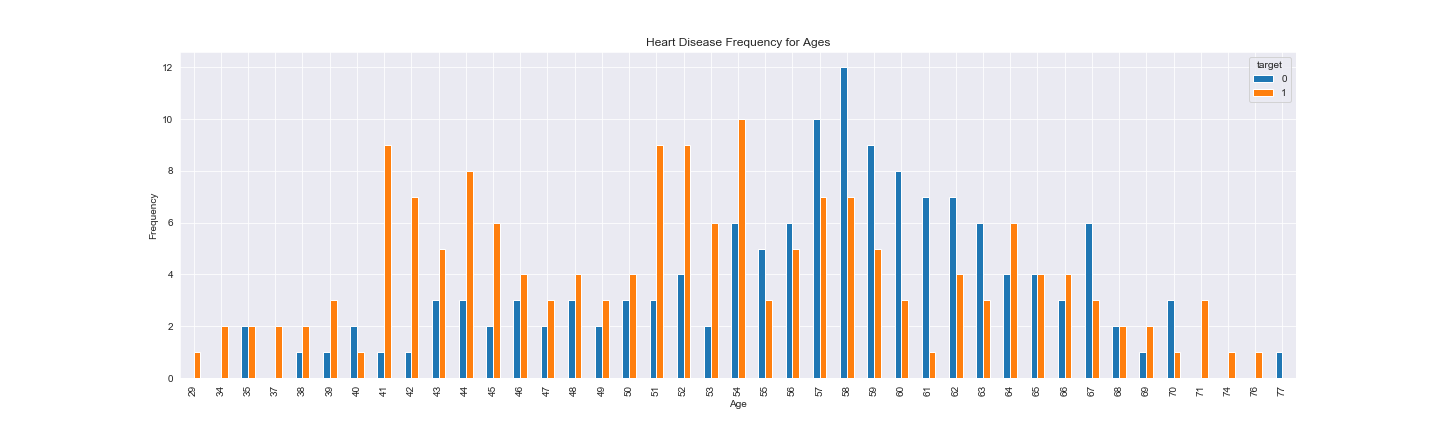
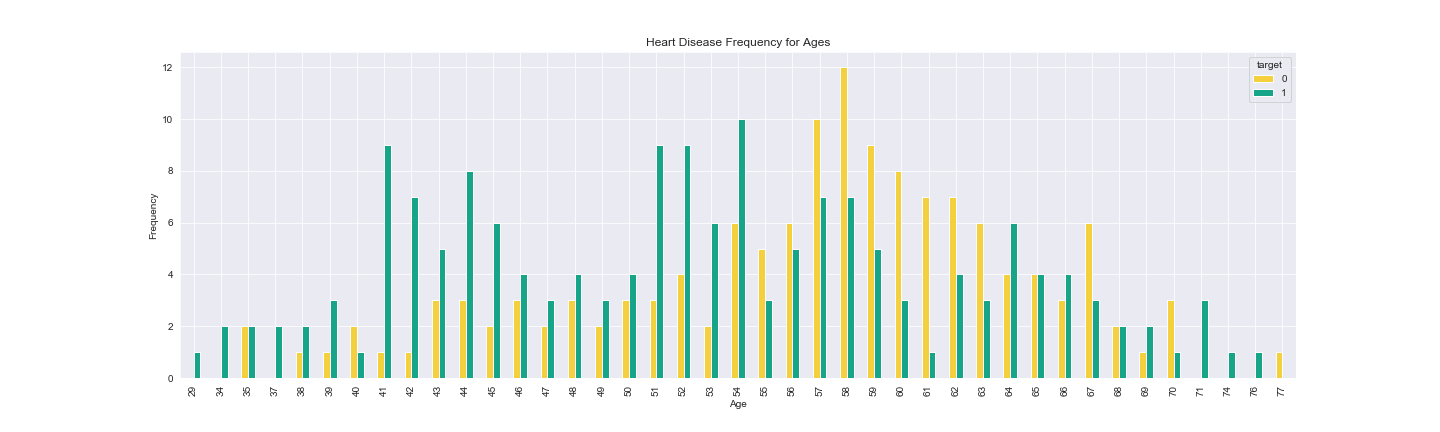
new color graph

Changed region(s): [[0.125, 0.1505, 0.9062, 0.8727], [0.875, 0.1806, 0.9062, 0.2407]]

diff --git a/UCI-Disease.py b/UCI-Disease.py
@@ -33,7 +33,7 @@ print(df.head())
 '''
 Show a number people who have heart disease and don't have.
 '''
-sns.countplot(x="target", data=df, palette="bwr")
+sns.countplot(x="target", data=df, palette="BuGn_r")
 plt.show()
 countNoDisease = len(df[df.target == 0])
 countHaveDisease = len(df[df.target == 1])
@@ -42,7 +42,7 @@ print("Percentage Have Heart Disease: {:.2f}%".format((countHaveDisease / (len(d
 '''
 Show a number of sex of people in dataset.
 '''
-sns.countplot(x='sex', data=df, palette="mako_r")
+sns.countplot(x='sex', data=df, palette="GnBu_d")
 plt.xlabel("Sex (0 = female, 1= male)")
 plt.show()
 countFemale = len(df[df.sex == 0])
@@ -56,7 +56,7 @@ print(df.groupby('target').mean())
 '''
 Show bar graph Heart Disease Frequency for Ages
 '''
-pd.crosstab(df.age,df.target).plot(kind="bar",figsize=(20,6))
+pd.crosstab(df.age,df.target).plot(kind="bar",figsize=(20,6),color=['#F4D03F','#17A589'])
 plt.title('Heart Disease Frequency for Ages')
 plt.xlabel('Age')
 plt.ylabel('Frequency')
@@ -65,7 +65,7 @@ plt.show()
 '''
 Show bar graph Heart Disease Frequency for Sex
 '''
-pd.crosstab(df.sex,df.target).plot(kind="bar",figsize=(15,6),color=['#1CA53B','#AA1111' ])
+pd.crosstab(df.sex,df.target).plot(kind="bar",figsize=(15,6),color=['#34495E','#17A589'])
 plt.title('Heart Disease Frequency for Sex')
 plt.xlabel('Sex (0 = Female, 1 = Male)')
 plt.xticks(rotation=0)
@@ -75,7 +75,7 @@ plt.show()
 '''
 Show scatter plot of Heart Disease occure wit maximun heart rate and age
 '''
-plt.scatter(x=df.age[df.target==1], y=df.thalach[(df.target==1)], c="red")
+plt.scatter(x=df.age[df.target==1], y=df.thalach[(df.target==1)], c="yellow")
 plt.scatter(x=df.age[df.target==0], y=df.thalach[(df.target==0)])
 plt.legend(["Disease", "Not Disease"])
 plt.xlabel("Age")
@@ -84,7 +84,7 @@ plt.show()
 '''
 Show bar graph Heart Disease Frequency for slope of peak
 '''
-pd.crosstab(df.slope,df.target).plot(kind="bar",figsize=(15,6),color=['#DAF7A6','#FF5733' ])
+pd.crosstab(df.slope,df.target).plot(kind="bar",figsize=(15,6),color=['#B9770E','#5B2C6F' ])
 plt.title('Heart Disease Frequency for Slope')
 plt.xlabel('The Slope of The Peak Exercise ST Segment ')
 plt.xticks(rotation = 0)
@@ -93,7 +93,7 @@ plt.show()
 '''
 Show bar graph Heart Disease Frequency for Fasting blood sugar
 '''
-pd.crosstab(df.fbs,df.target).plot(kind="bar",figsize=(15,6),color=['#FFC300','#581845' ])
+pd.crosstab(df.fbs,df.target).plot(kind="bar",figsize=(15,6),color=['#11A5AA','#AA1190' ])
 plt.title('Heart Disease Frequency According To FBS')
 plt.xlabel('FBS - (Fasting Blood Sugar > 120 mg/dl) (1 = true; 0 = false)')
 plt.xticks(rotation = 0)
@@ -103,7 +103,7 @@ plt.show()
 '''
 Show bar graph Heart Disease Frequency for type of chest pain
 '''
-pd.crosstab(df.cp,df.target).plot(kind="bar",figsize=(15,6),color=['#11A5AA','#AA1190' ])
+pd.crosstab(df.cp,df.target).plot(kind="bar",figsize=(15,6),color=['#FFC300','#581845' ])
 plt.title('Heart Disease Frequency According To Chest Pain Type')
 plt.xlabel('Chest Pain Type')
 plt.xticks(rotation = 0)
